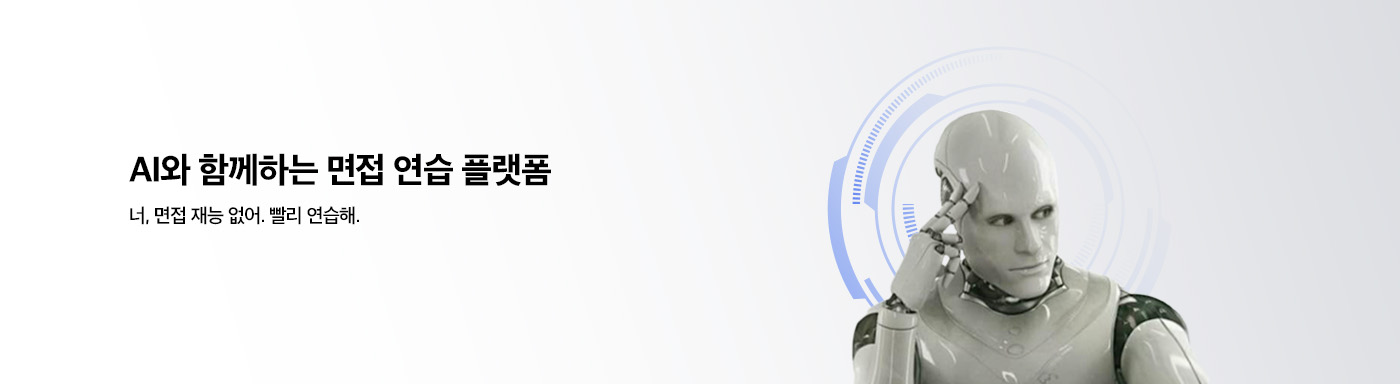
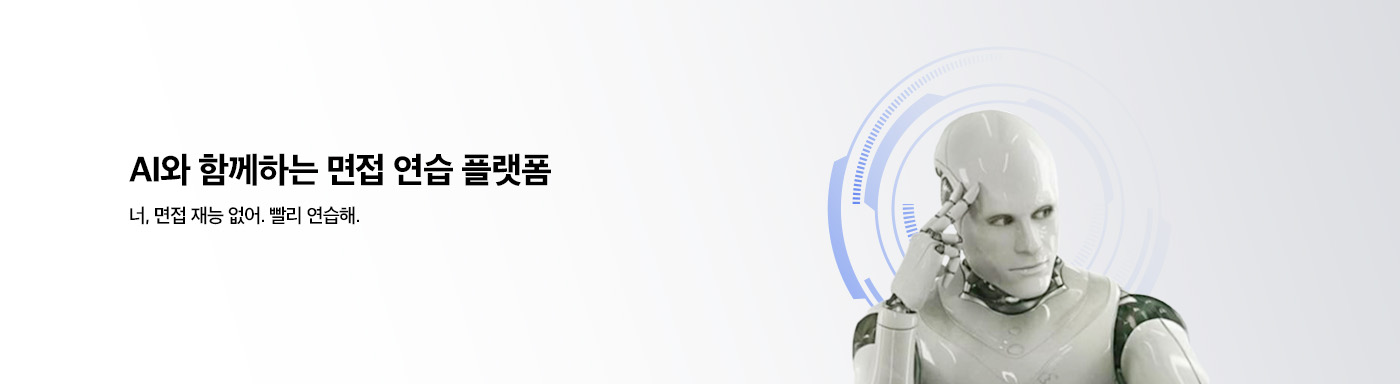
[FE] 로그인 refreshToken 만료시의 이슈, Toast UI Editor 관련 문제 수정
Squashed commit of the following:

commit 934be473a1203dd79604f10b531948d16630ac58
Author: Hyunnique <seol3964@naver.com>
Date:   Thu Feb 15 09:26:24 2024 +0900

    fix: 로그인 refreshToken 만료 시 발생하는 문제 수정

    - 배너 이미지 수정
    - Kakao Login 비활성화 해제
    - TOAST UI Editor 관련 resolution 이슈 수정

Changed region(s): [[0.6143, 0.3125, 0.86, 1.0]]

diff --git a/frontend/src/utils/axios.ts b/frontend/src/utils/axios.ts
@@ -55,19 +55,24 @@ const useLocalAxios = (isAuth?: boolean): AxiosInstance => {
 						},
 					);
 
-					const refreshResponse = await refreshAxios.get('/auth/refresh', {
-						headers: {
-							Refresh: authStore.refreshToken,
-						},
-					});
+					try {
+						const refreshResponse = await refreshAxios.get('/auth/refresh', {
+							headers: {
+								Refresh: authStore.refreshToken,
+							},
+						});
 
-					if (!refreshResponse.data.accessToken) {
+						if (!refreshResponse.data.accessToken) {
+							authStore.clearAuth();
+							return Promise.reject(error);
+						}
+
+						authStore.setAccessToken(refreshResponse.data.accessToken);
+					} catch (e) {
+						console.error(e);
 						authStore.clearAuth();
 						return Promise.reject(error);
 					}
-
-					console.log(refreshResponse);
-					authStore.setAccessToken(refreshResponse.data.accessToken);
 
 					return instance.request(error.config);
 				}

diff --git a/frontend/src/containers/callback/KakaoCallback.tsx b/frontend/src/containers/callback/KakaoCallback.tsx
@@ -16,7 +16,6 @@ export const KakaoCallback = () => {
 			return;
 		}
 
-		return;
 		localAxios
 			.post('/auth/login/kakao', null, {
 				params: { code },
